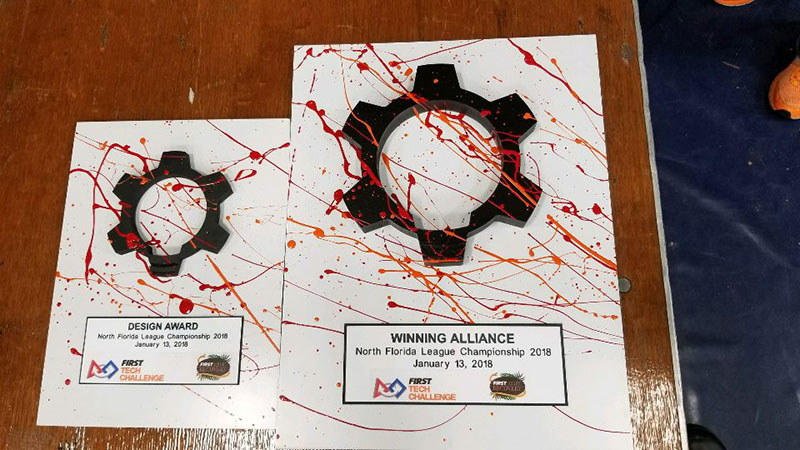
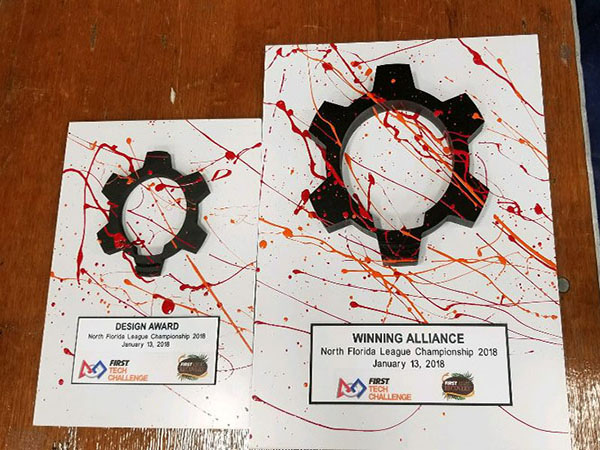
Made to work better on mobile

diff --git a/client/src/pages/TeamInfo.js b/client/src/pages/TeamInfo.js
@@ -11,7 +11,7 @@ class TeamInfo extends Component {
             carouselIndicators.push(<li data-target="#carouselComponent" data-slide-to={index} key={index} className={index === 0 ? "active" : "other"}></li>);
             imageComponents.push(
                 <div className={`carousel-item${index === 0 ? " active" : ""}`}>
-                    <img className="d-block mx-auto" src={`/images/${name}`} max-width="100%" max-height="100%" alt="" />
+                    <img className="img-fluid mx-auto d-block" src={`/images/${name}`} max-width="100%" max-height="100%" alt="" />
                 </div>
             );
         });

diff --git a/client/src/scss/saturn.scss b/client/src/scss/saturn.scss
@@ -1,5 +1,1 @@
 @import '~bootstrap/scss/bootstrap';
-
-
-.carousel,.carousel-item,.active{height:100%;}
-.carousel-inner{height:100%;}
